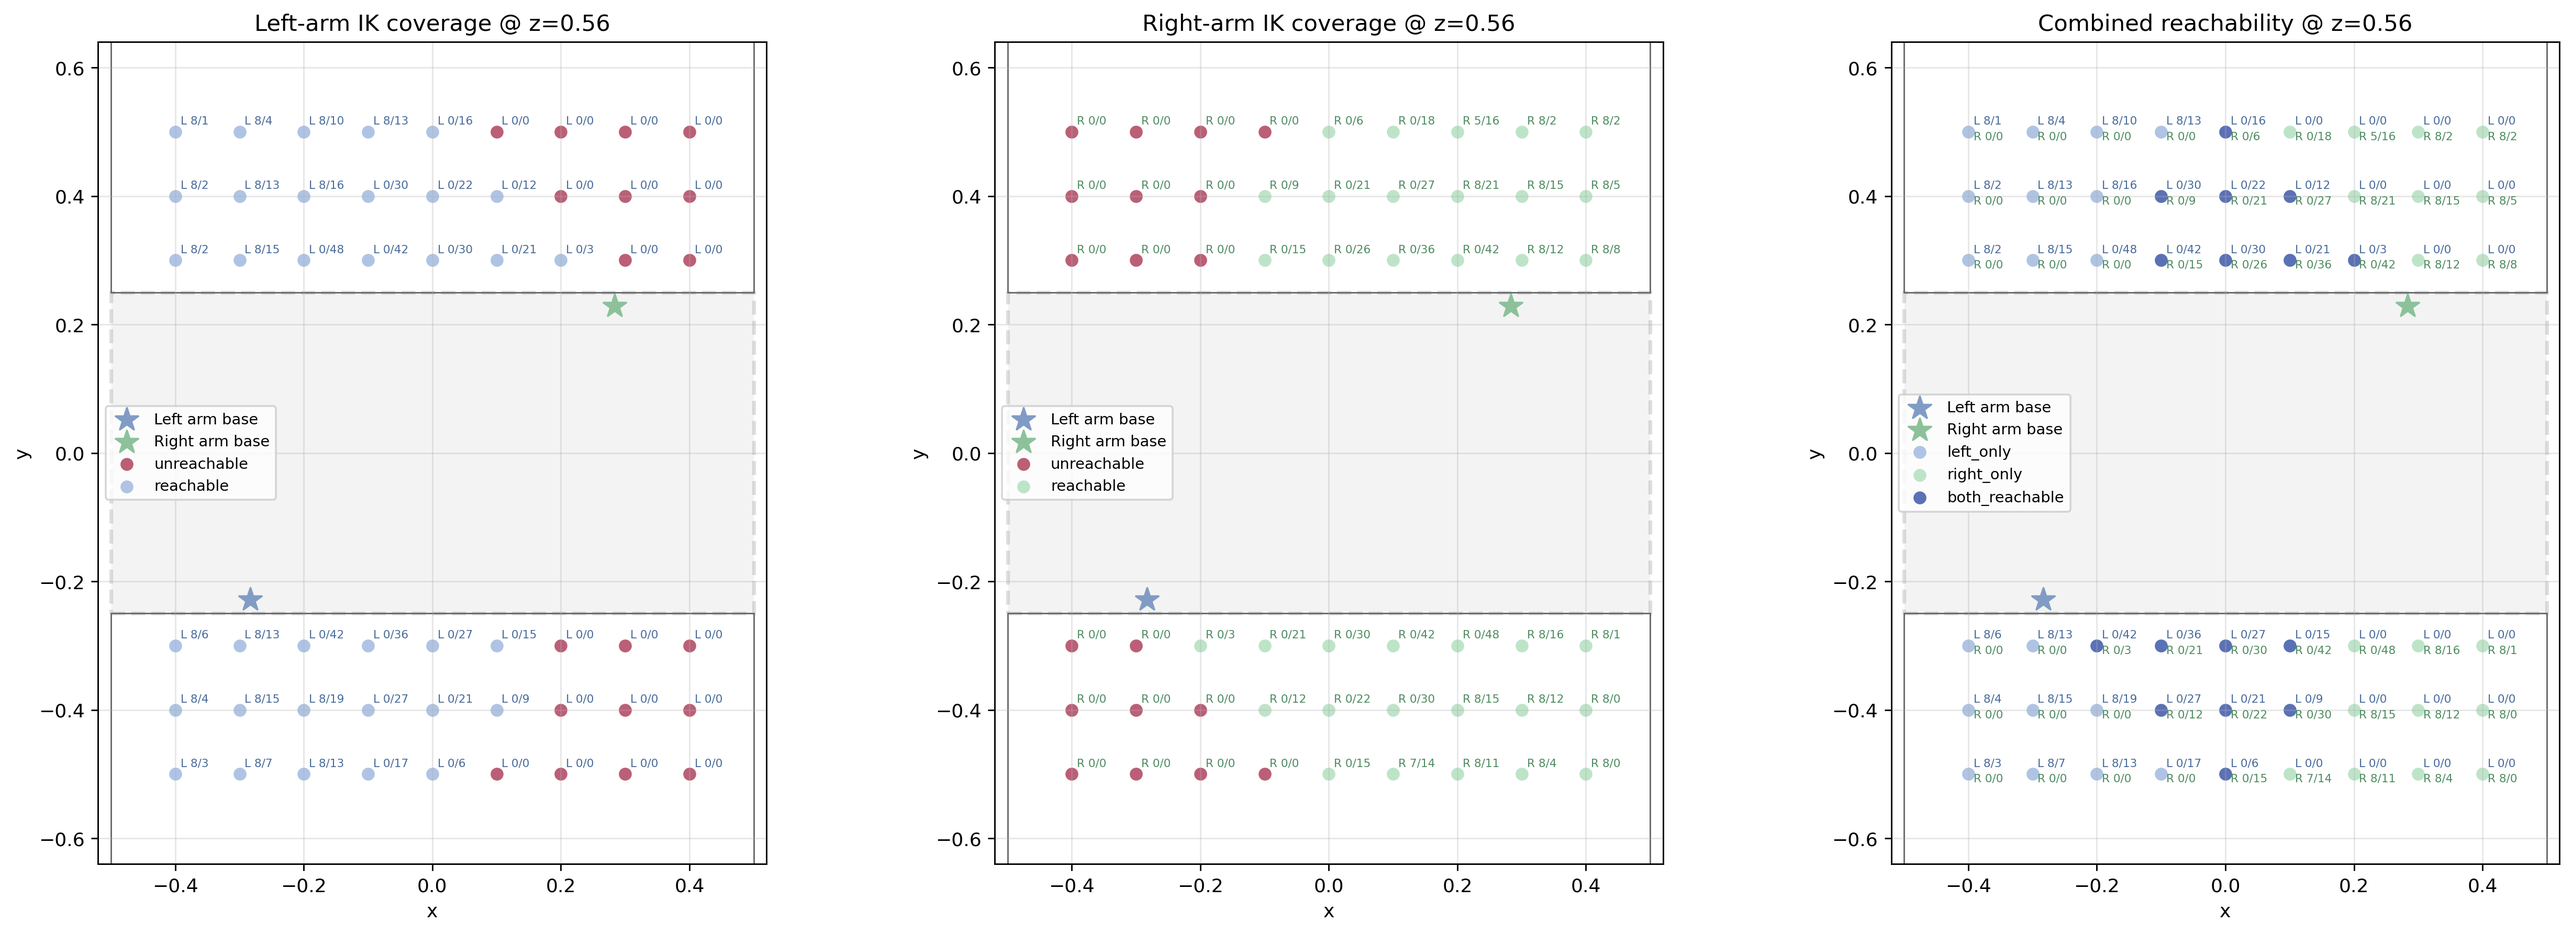
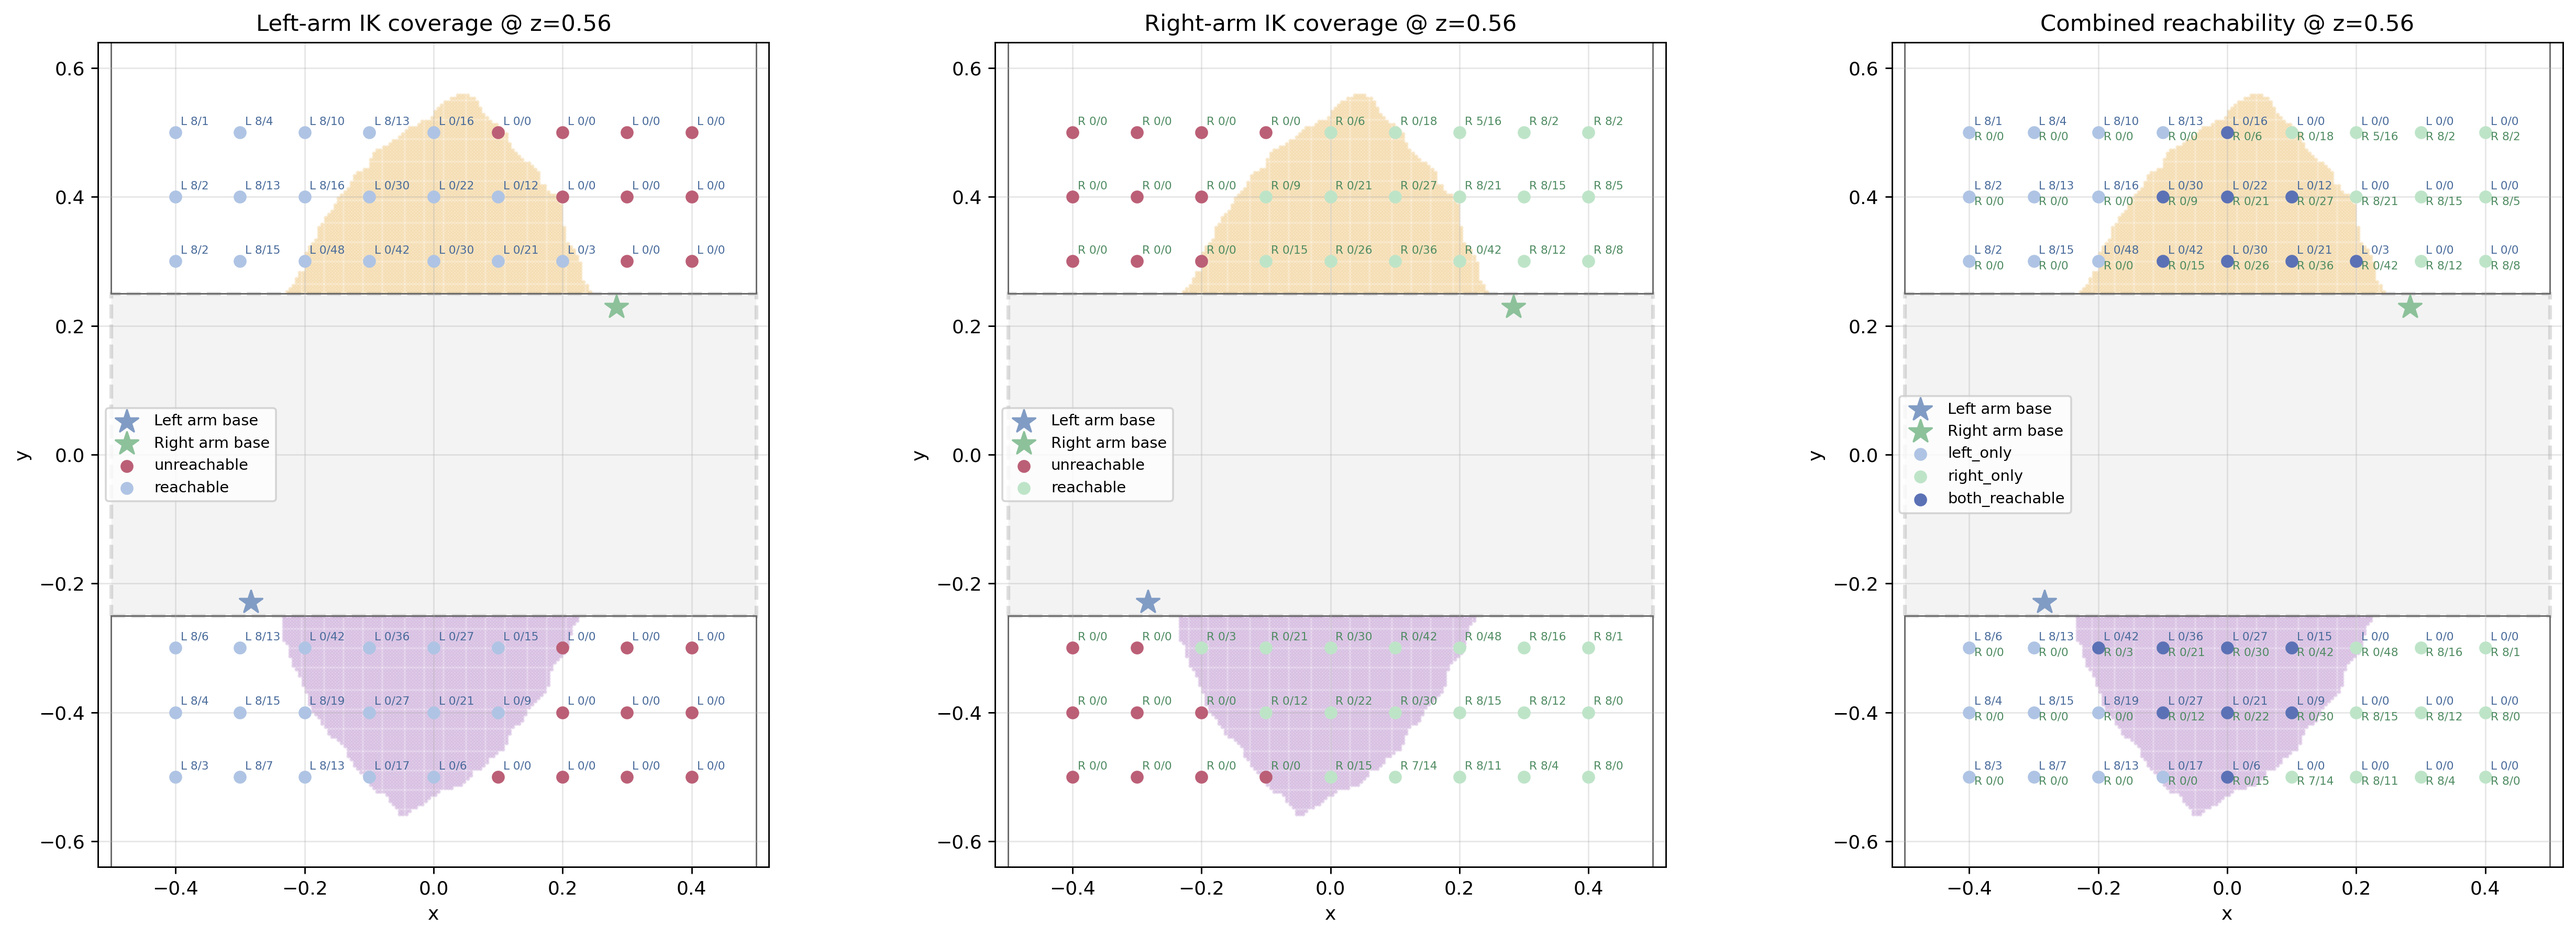
在散点可达性可视化中增加对危险区的显示

diff --git a/roi/build_roi_table_selected_points_cover_first.py b/roi/build_roi_table_selected_points_cover_first.py
@@ -345,7 +345,7 @@ def annotate_counts(ax, data, which="combined"):
             ax.text(x + 0.008, y + dy, f"R {rs}/{rf}", fontsize=6, color="#4E8B61")
 
 
-def plot_reachability(roi_payload, out_png, T_left, T_right):
+def plot_reachability(roi_payload, out_png, T_left, T_right, masks=None):
     target_z = float(roi_payload["meta"]["z"])
     data = roi_payload["data"]
     left_groups = {"unreachable": [], "reachable": []}
@@ -377,6 +377,26 @@ def plot_reachability(roi_payload, out_png, T_left, T_right):
         ax.add_patch(veh)
         ax.scatter(T_left[0, 3], T_left[1, 3], c="#819CC4", marker="*", s=160, zorder=5, label="Left arm base")
         ax.scatter(T_right[0, 3], T_right[1, 3], c="#8CC19A", marker="*", s=160, zorder=5, label="Right arm base")
+        
+        if masks is not None:
+            extent = masks["extent"]
+            res = masks["res"]
+            x_min, _, y_min, _ = extent
+
+            # Upper danger mask
+            du_grid = masks["grid_I_upper"]
+            ix, iy = np.where(du_grid)
+            xs = x_min + (ix + 0.5) * res
+            ys = y_min + (iy + 0.5) * res
+            ax.scatter(xs, ys, s=2, c="#e8a838", alpha=0.18, zorder=1, label="_nolegend_")
+
+            # Lower danger mask
+            dl_grid = masks["grid_I_lower"]
+            ix, iy = np.where(dl_grid)
+            xs = x_min + (ix + 0.5) * res
+            ys = y_min + (iy + 0.5) * res
+            ax.scatter(xs, ys, s=2, c="#9b59b6", alpha=0.18, zorder=1, label="_nolegend_")
+
         for roi, clr in [({"x_min": -0.5, "x_max": 0.5, "y_min": 0.25, "y_max": 0.65}, "dimgray"), ({"x_min": -0.5, "x_max": 0.5, "y_min": -0.65, "y_max": -0.25}, "dimgray")]:
             ax.add_patch(patches.Rectangle((roi["x_min"], roi["y_min"]), roi["x_max"] - roi["x_min"], roi["y_max"] - roi["y_min"], linewidth=0.8, edgecolor=clr, facecolor="none"))
         ax.set_title(title)
@@ -391,7 +411,7 @@ def plot_reachability(roi_payload, out_png, T_left, T_right):
     for cls, pts in left_groups.items():
         if pts:
             pts = np.asarray(pts)
-            axes[0].scatter(pts[:, 0], pts[:, 1], s=34, c={"unreachable":"#BB5F76","reachable":"#AFC4E4"}[cls], label=cls)
+            axes[0].scatter(pts[:, 0], pts[:, 1], s=34, c={"unreachable":"#BB5F76","reachable":"#AFC4E4"}[cls], label=cls, zorder=3)
     annotate_counts(axes[0], data, which="left")
     axes[0].legend(loc="center left", fontsize=8)
 
@@ -399,7 +419,7 @@ def plot_reachability(roi_payload, out_png, T_left, T_right):
     for cls, pts in right_groups.items():
         if pts:
             pts = np.asarray(pts)
-            axes[1].scatter(pts[:, 0], pts[:, 1], s=34, c={"unreachable":"#BB5F76","reachable":"#BEE4C8"}[cls], label=cls)
+            axes[1].scatter(pts[:, 0], pts[:, 1], s=34, c={"unreachable":"#BB5F76","reachable":"#BEE4C8"}[cls], label=cls, zorder=3)
     annotate_counts(axes[1], data, which="right")
     axes[1].legend(loc="center left", fontsize=8)
 
@@ -408,7 +428,7 @@ def plot_reachability(roi_payload, out_png, T_left, T_right):
     for cls, pts in summary_groups.items():
         if pts:
             pts = np.asarray(pts)
-            axes[2].scatter(pts[:, 0], pts[:, 1], s=34, c=cmap[cls], label=cls)
+            axes[2].scatter(pts[:, 0], pts[:, 1], s=34, c=cmap[cls], label=cls, zorder=3)
     annotate_counts(axes[2], data, which="combined")
     axes[2].legend(loc="center left", fontsize=8)
 
@@ -446,7 +466,10 @@ def main():
             payload = pickle.load(f)
         print(f"[info] existing ROI table found, skip solving: {roi_table_file}", flush=True)
         print(summarize(payload), flush=True)
-        plot_reachability(payload, fig_file, T_left, T_right)
+        masks = None
+        if os.path.exists(danger_npz):
+            masks = load_masks(danger_npz)
+        plot_reachability(payload, fig_file, T_left, T_right, masks)
         return
 
     if not os.path.exists(danger_npz):
@@ -475,7 +498,7 @@ def main():
         pickle.dump(payload, f, protocol=4)
     print(f"Saved ROI table to {roi_table_file}", flush=True)
     print(summarize(payload), flush=True)
-    plot_reachability(payload, fig_file, T_left, T_right)
+    plot_reachability(payload, fig_file, T_left, T_right, masks)
 
 
 if __name__ == "__main__":
